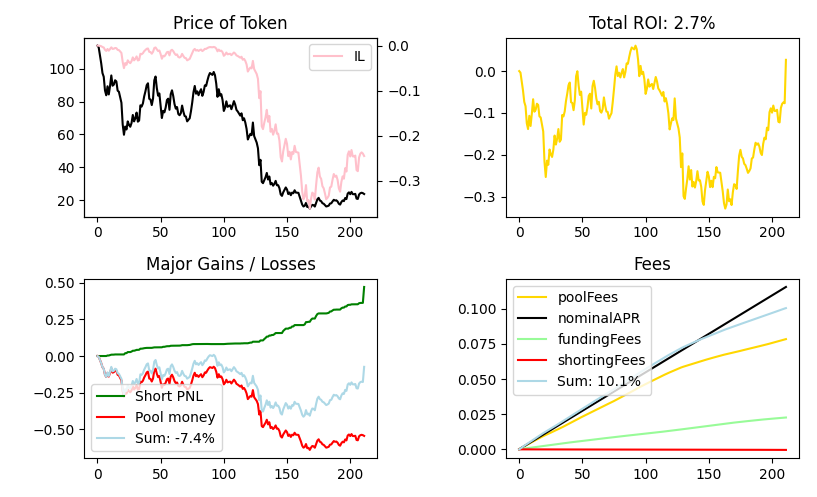
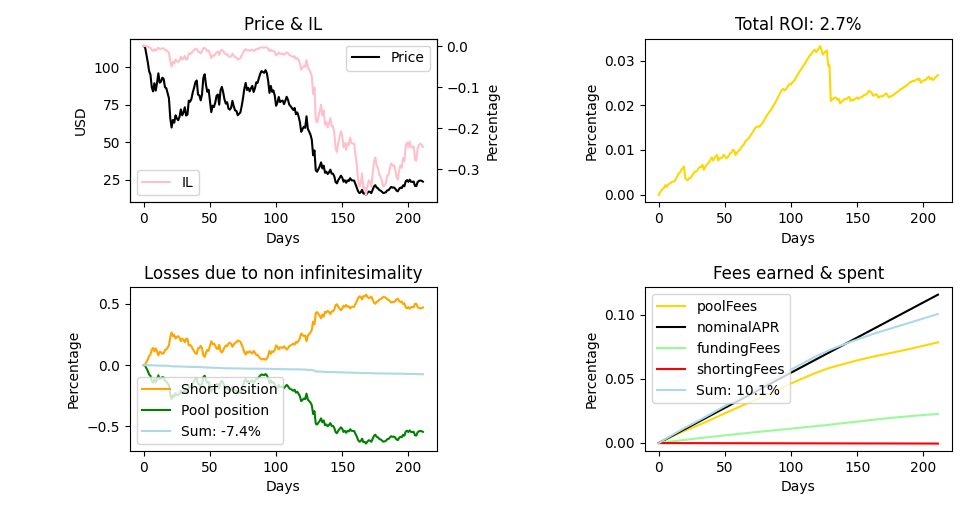
better graphs

diff --git a/pool.py b/pool.py
@@ -59,9 +59,9 @@ class Portfolio:
 
     def modifyShort(self, price, amount):
         if amount > 0:
-             self.openShort(price, amount)
-        elif amount < 0:
-             self.closeShort(price, amount)
+            self.openShort(price, amount)
+        else:
+            self.closeShort(price, amount)
 
     def openShort(self, openPrice, amount):
         amount = np.abs(amount)
@@ -76,6 +76,10 @@ class Portfolio:
         self.totalShortPNL += -(closePrice - self.averageOpenPrice) * amount
         self.totalShortingFees +=  - closePrice * amount * self.makerFees
         self.totalOpenShortAmount -= amount
+
+    def payShortFees(self, price, amount):
+        amount = np.abs(amount)
+        self.totalShortingFees += - price * amount * self.makerFees
 
 
     def totalPoolAmount(self):
@@ -118,7 +122,7 @@ class Portfolio:
 
         times = [i for i in range(nbStep)]
         prices = []
-        shortPNL = []
+        shortVirtualPNL = []
         fundingFees = []
         shortingFees = []
         poolMoney = []
@@ -134,7 +138,7 @@ class Portfolio:
                 self.updateShortPosition()
 
             prices.append(self.price)
-            shortPNL.append(self.totalShortPNL/(2*self.k))
+            shortVirtualPNL.append((self.totalShortPNL-(self.price - self.averageOpenPrice) * self.BTCinPool)/(2*self.k)) #we simulate the short closing to TP at time t - if not, our short PNL doesn't reflect the actual edging
             fundingFees.append(self.totalFundingFees/(2*self.k))
             shortingFees.append(self.totalShortingFees/(2*self.k))
             poolMoney.append(self.totalPoolAmount()/(2*self.k) - 1)
@@ -150,16 +154,16 @@ class Portfolio:
         times.append(nbStep)
         poolMoney.append(self.totalPoolAmount()/(2*self.k) - 1)
         prices.append(self.price)
-        shortPNL.append(self.totalShortPNL/(2*self.k))
+        shortVirtualPNL.append(self.totalShortPNL/(2*self.k))
         fundingFees.append(self.totalFundingFees/(2*self.k))
         shortingFees.append(self.totalShortingFees/(2*self.k))
         poolFees.append(self.totalPoolFees/(2*self.k))
         impermanentLoss.append(self.totalPoolAmount()/((prices[0]+self.price) * self.k / prices[0]) - 1)
 
-        totalGain = [sum(x) for x in zip(shortPNL, fundingFees, shortingFees, poolMoney, poolFees)]
+        totalGain = [sum(x) for x in zip(shortVirtualPNL, fundingFees, shortingFees, poolMoney, poolFees)]
 
         if plot:
-            self.plot(times, poolMoney, prices, shortPNL, fundingFees, shortingFees, poolFees, impermanentLoss, nbStep, totalGain)
+            self.plot(times, poolMoney, prices, shortVirtualPNL, fundingFees, shortingFees, poolFees, impermanentLoss, nbStep, totalGain)
 
         return totalGain
 
@@ -167,33 +171,32 @@ class Portfolio:
       
         fig, axs = plt.subplots(2, 2)
 
-        axs[0, 0].plot(times, prices, color = 'black')
-        axs[0, 0].set_title('Price of Token')
-
+        axs[0, 0].plot(times, prices, color = 'black', label='Price')
+        axs[0, 0].set_title('Price & IL')
+        axs[0, 0].set_xlabel('Days')
+        axs[0, 0].set_ylabel('USD')
+        axs[0, 0].legend()
         ax2 = axs[0, 0].twinx()
         ax2.plot(times, impermanentLoss, color = 'pink', label='IL')
-        ax2.legend()
+        ax2.set_ylabel('Percentage')
+        ax2.legend(loc='lower left')
  
 
-        if shortPNL[-1] < 0:
-            colorPNL = "red"
-        else:
-            colorPNL = 'green'
-
-        if poolMoney[-1] < 0:
-            colorPool = "red"
-        else:
-            colorPool = 'green'
+        colorPNL = "orange"
+ 
+        colorPool = 'green'
 
         if fundingFees[-1] < 0:
             colorFunding = "lightcoral"
         else:
             colorFunding = 'palegreen'
 
-        axs[1, 0].plot(times, shortPNL, color = colorPNL, label='Short PNL')
-        axs[1, 0].plot(times, poolMoney, color = colorPool, label = 'Pool money')
+        axs[1, 0].plot(times, shortPNL, color = colorPNL, label='Short position')
+        axs[1, 0].plot(times, poolMoney, color = colorPool, label = 'Pool position')
         axs[1, 0].plot(times, [sum(x) for x in zip(shortPNL, poolMoney,)], color = 'lightblue', label='Sum: '+ str(round((shortPNL[-1] + poolMoney[-1])*100, 1)) + '%')
-        axs[1, 0].set_title('Major Gains / Losses')
+        axs[1, 0].set_title('Losses due to non infinitesimality')
+        axs[1, 0].set_ylabel('Percentage')
+        axs[1, 0].set_xlabel('Days')
         axs[1, 0].legend()
 
         axs[1, 1].plot(times, poolFees, color = 'gold', label='poolFees')
@@ -201,11 +204,15 @@ class Portfolio:
         axs[1, 1].plot(times, fundingFees, color = colorFunding, label = 'fundingFees')
         axs[1, 1].plot(times, shortingFees, color = 'red', label = 'shortingFees')
         axs[1, 1].plot(times, [sum(x) for x in zip(shortingFees, fundingFees,poolFees)], color = 'lightblue', label='Sum: '+ str(round((shortingFees[-1] + fundingFees[-1] + poolFees[-1])*100, 1)) + '%')
-        axs[1, 1].set_title('Fees')
+        axs[1, 1].set_title('Fees earned & spent')
+        axs[1, 1].set_ylabel('Percentage')
+        axs[1, 1].set_xlabel('Days')
         axs[1, 1].legend()
         
         axs[0, 1].plot(times, totalGain, color = 'gold')
         axs[0, 1].set_title('Total ROI: '+ str(round(totalGain[-1]*100, 1)) + '%')
+        axs[0, 1].set_ylabel('Percentage')
+        axs[0, 1].set_xlabel('Days')
         plt.tight_layout(pad=1)
         plt.show()
 
@@ -282,7 +289,7 @@ def benchmarkOnHistoricalData():
 
     start = 1641073359
     end = 1659326400
-    prices = getPriceHistorical(start, end, "1d", "AVAXUSDT")
+    prices = getPriceHistorical(start, end, "1d", "BTCUSDT")
 
     n = len(prices) - 1
     k = 1

diff --git a/README.md b/README.md
@@ -53,19 +53,20 @@ Please see examples at the end of `pool.py`.
 
 After playing with the parameters (I won't do a statistical analysis of their impact), we notice that the most important parameter is the volatility of the underlying asset. It is understandable because volatility directly impact the validity of our infinitesimal calculus - costing us a non negligeable amount of money. 
 
-With a low daily volatility we obtain great results (pool APR = 20%, funding rates APR = 8%)
+With a "low" crypto daily volatility (average daily movement = 4.5%, which is still high for cryptos) we obtain great results (pool APR = 20%, funding rates APR = 8%)
 ![image info](./img/low_vol_low_il.png)
-IL in pink is the Impermanent loss, in % (loss linked to providing liquidity in the pool VS just holding). Here, with close to no IL, rebalancing the short cost us only 15.3% which is greatly under our benefits (20+8 - shorting fees = 25%). So we obtain a great ROI YoY.
+IL in pink is the Impermanent loss, in % (loss linked to providing liquidity in the pool VS just holding). Here, with close to no IL, rebalancing the short cost us only 18.5% which is greatly under our benefits (20% nominal but more due to positive IL during the period, to 32%). So we obtain a great ROI YoY. Bottom left graph shows what it costs us to be market neutral. As we can see, the two lines are somewhat symmetric and it shows that our short position indeed counter balance our pool position (not perfectly due to dP not being enoughly small): market neutrality. Note: the cost of being market neutral is higher when price goes in an upward trend because our short position is "lagging" in a way that makes us lose money, but it's counter balanced by poolFees increasing due to our pool position increasing. It's the opposite when the trend is downward: it costs less to be market neutral, but pool fees are lower.
 
-This results hold with a higher IL showing that the strategy is indeed really market neutral:
+This result holds with a higher IL showing that the strategy doesn't rely on any market conditions:
 ![image info](./img/low_vol_high_il.png)
 
-As said, if the volatility of the underlying asset increases, the strategy becomes unprofitable. The relative error of our calculus become too important to be absorbed by the profits:
+As said, if the volatility of the underlying asset increases (average daily movement = 7% which is very high), the strategy becomes unprofitable. The relative error of our calculus become too important to be absorbed by the profits:
 ![image info](./img/high_vol.png)
-### Historical prices
+
+### Historical prices - Benchmark on real data 
 
 We will try to confirm those observations against reality.
-First, let's benchmark the startegy on a relative low-volatility asset such as BTC on the two 8 months of 2022 with the same APR (pool & funding rates):
+First, let's benchmark the startegy on a relative low-volatility crypto asset such as BTC on the 8 first months of 2022 with the same APR (pool & funding rates):
 ![image info](./img/hist_low_vol.png)
 9.2% ROI an 8 month which is around 14% YoY. This is extremely satisfying but we need to take in consideration that finding a 20% APR pool on BTC/USDC might be really specific/hard. Moreover, the APR of a pool is varying during the year. Note: I made this program in march and tested BTC ROI for the 2 first month of 2022 (around 2.1%). This benchmark is thus really fair and works on real market conditions, even during a big krash.
 
@@ -76,7 +77,5 @@ It is still profitable!
 ## Conclusion & Openings
 
 This strategy proves to be profitable. We need to find an asset highly traded to have great pool APRs, with a small dilution so it's not too shorted and funding rates are positive (and interesting), and which is not too volatile. We could try to benchmark a list of asset using real APRs data from Uniswap/TraderJoe for example - which was not done here.
-
-Also, the ROI graph can be misleading: the program is not closing the short position at each time step but only rebalancing the position (adding/closing small amounts instead of full close then full open) to optimize exchange fees (that depend on order size). So even if the graph went negative, it doesn't mean that the strategy was unprofitable at a time because the short position was not close, and previous short gains were not TPed.
 
 Finally we may focus on token/token pools. There might be interesting positively correlated pairs where the pools is thus less exposed to market movements and so volatility matters less. Furthermore, having two shorts implies the earning of two funding rates fees.
